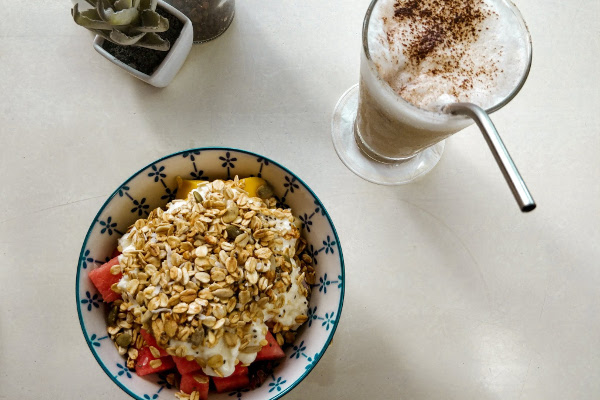
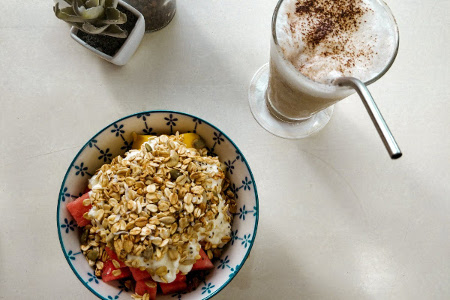
css update

Changed region(s): [[0.4667, 0.96, 0.4978, 0.99], [0.3733, 0.54, 0.4044, 0.57]]

diff --git a/assets/main.scss b/assets/main.scss
@@ -195,6 +195,11 @@ ul.post-list {
   }
 }
 
+img.post-image {
+	max-width: 486px;
+	max-height: 243px;
+}
+
 
 /** 
  * Post banner
